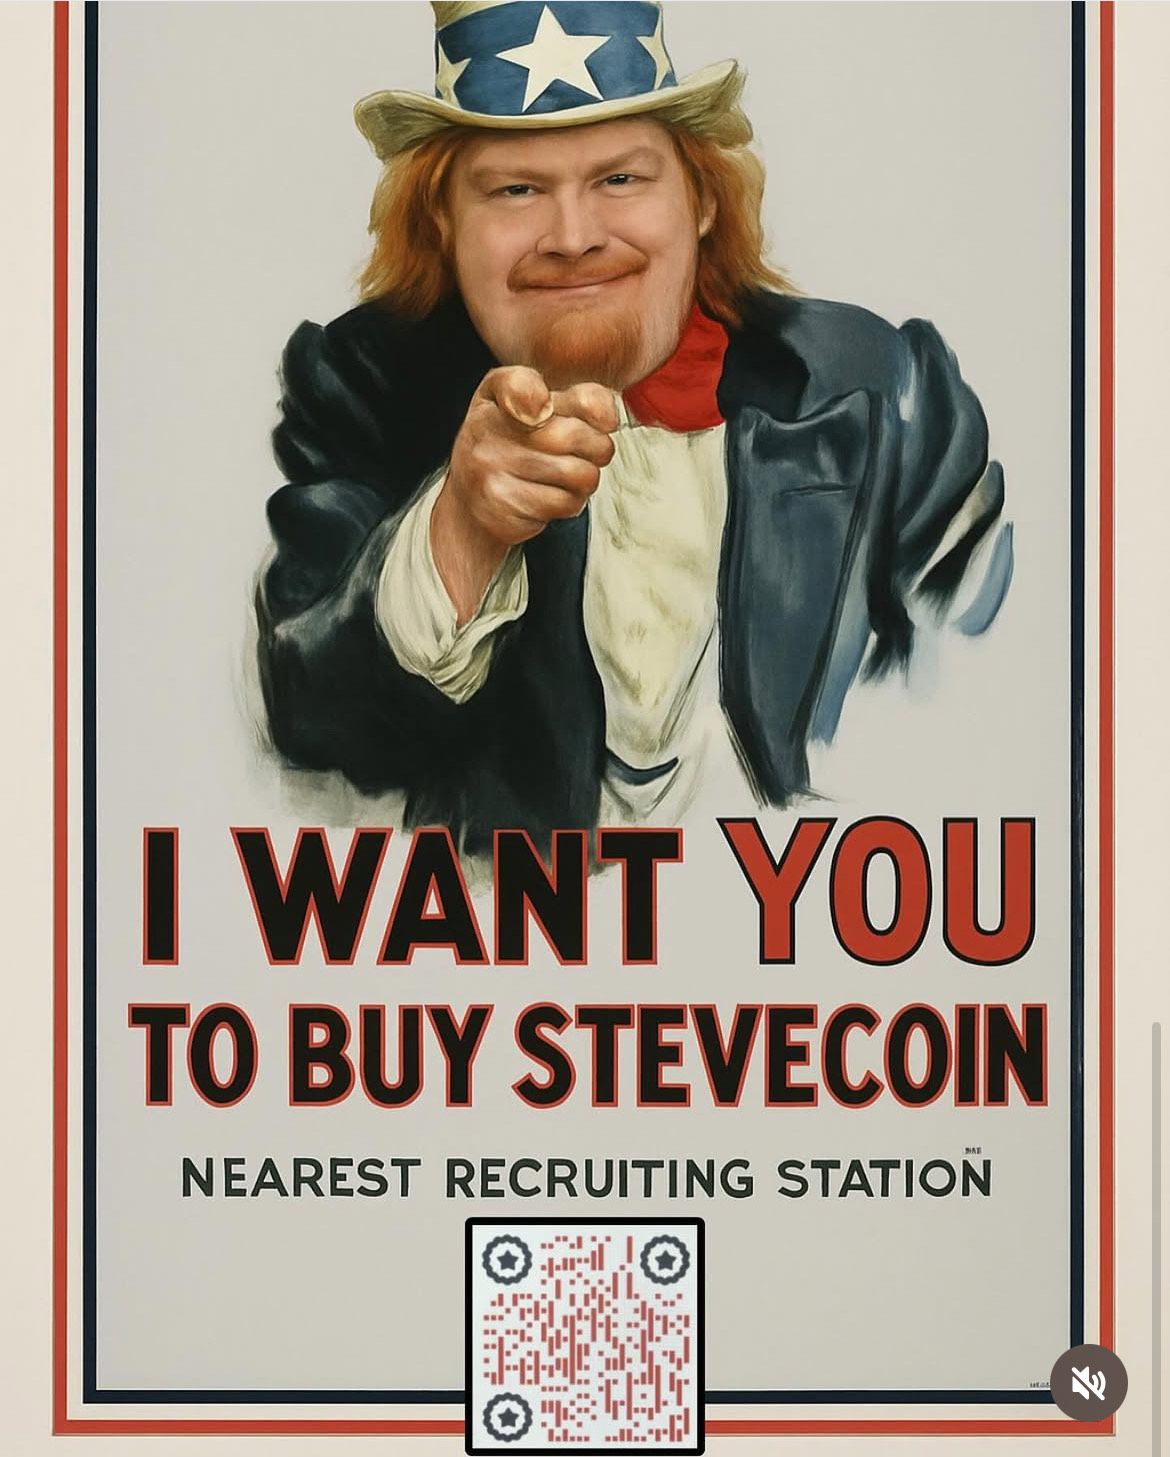
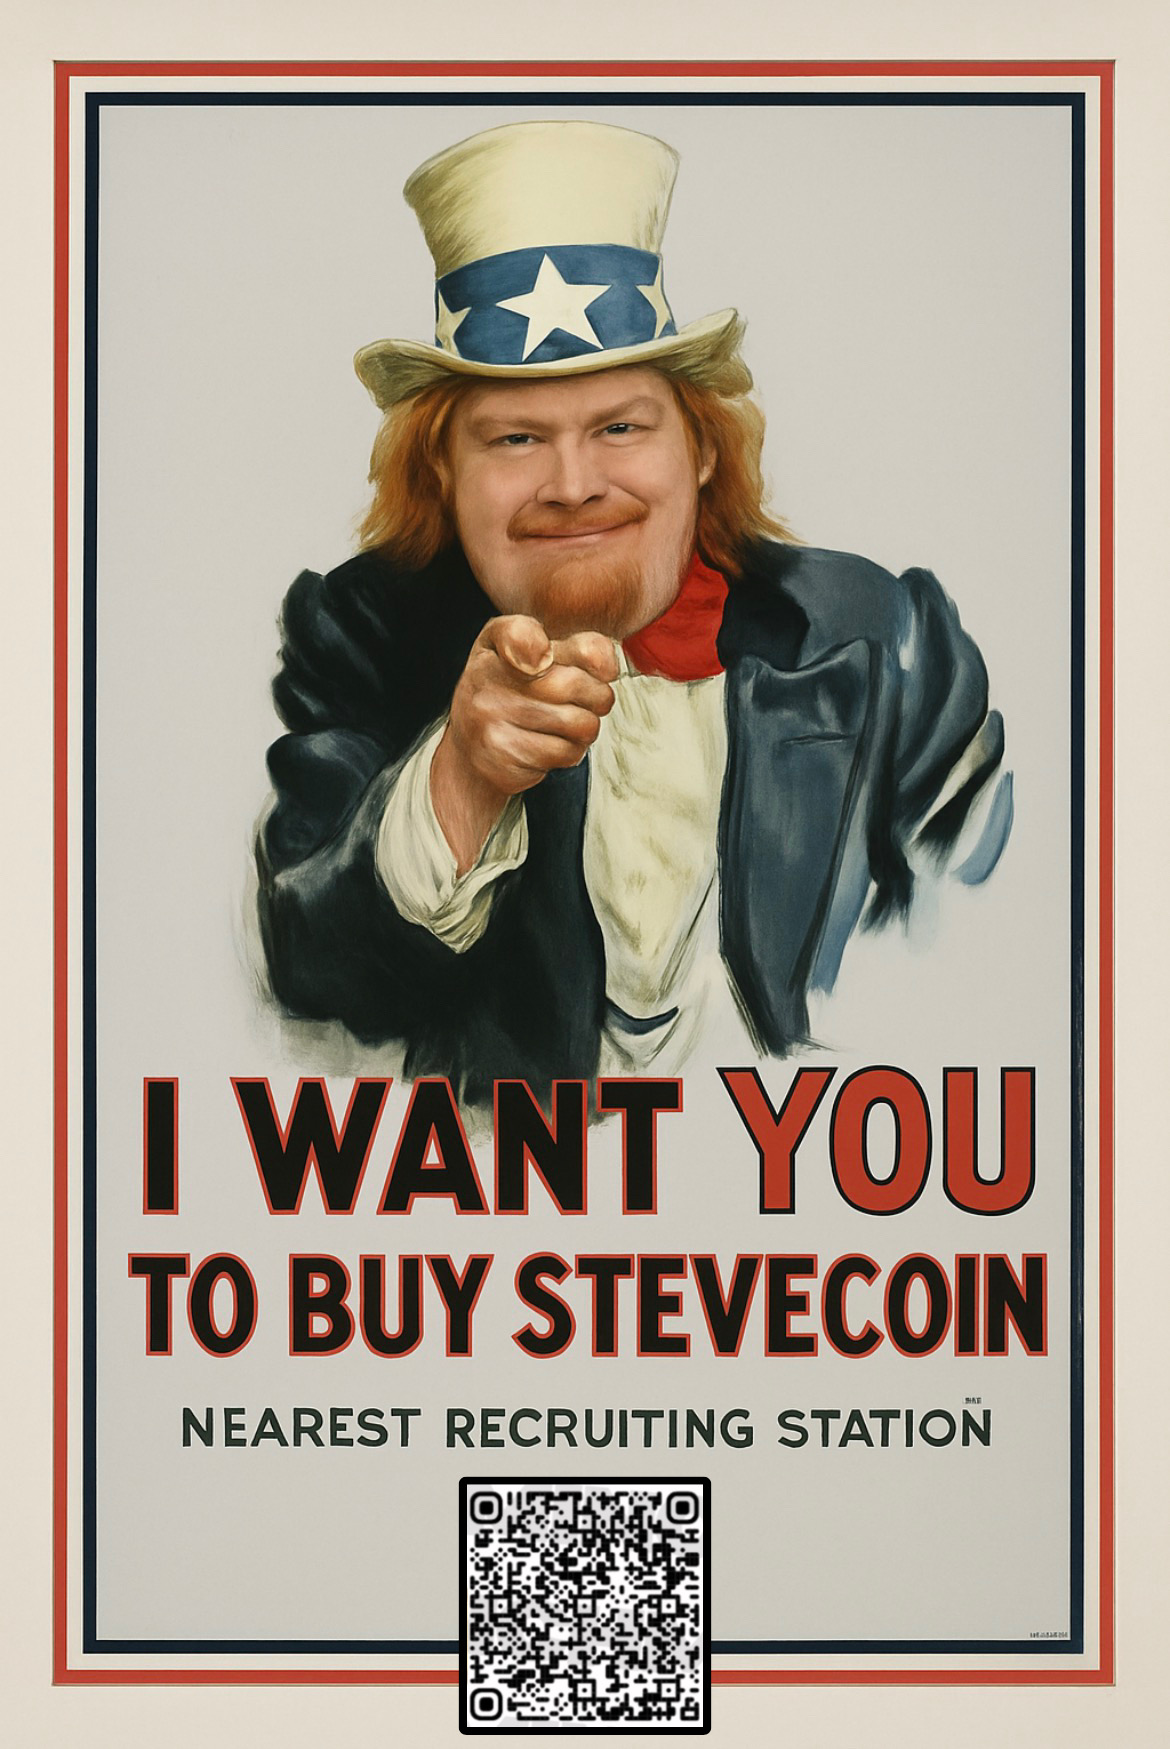
THIS TOOK FOREVER

diff --git a/index.html b/index.html
@@ -40,9 +40,8 @@
             <div class="row align-items-center">
                 <div class="col-lg-8 mx-auto">
                     <div class="mb-4">
-                        <img src="SteveCoin_banner.jpeg" alt="SteveCoin Hero Banner" class="img-fluid rounded shadow-lg w-100" style="max-height: 400px; object-fit: cover;">
+                        <img src="SteveCoin_banner.jpeg" alt="SteveCoin Hero Banner" class="rounded shadow-lg">
                     </div>
-                    <h1 class="display-3 fw-bold text-warning mb-2 military-font">WE WANT YOU TO BUY STEVECOIN</h1>
                     <p class="lead text-white bg-dark bg-opacity-75 rounded p-2 mb-4">Join the ranks of the bravest crypto holders. SteveCoin is the best coin with serious merch. BUY NOW!</p>
                     <a href="https://pump.fun/coin/GC1Ns9RAHGwJJxnmunMJpyssoYPZDkdgZrGTePJaUhpX" class="btn btn-danger btn-lg fw-bold shadow pulse" target="_blank">BUY STEVECOIN NOW</a>
                 </div>

diff --git a/style.css b/style.css
@@ -1,16 +1,25 @@
 
 .military-hero {
-	background: linear-gradient(135deg, #2d2d2d 60%, #4b5320 100%);
-	min-height: 80vh;
-	position: relative;
-	display: flex;
-	align-items: center;
+  background: linear-gradient(135deg, #2d2d2d 60%, #4b5320 100%);
+  min-height: 80vh;
+  position: relative;
+  display: flex;
+  align-items: flex-start; 
+  justify-content: center; 
+  padding-top: 0;
+  padding-bottom: 0;
 }
 
+
 .military-hero img {
-	max-height: 100%;
-	object-fit: contain;
-	width: 100%;
+	max-width: 100%;
+	height: auto;
+	object-fit: cover;
+	object-position: 100% 0;
+	transform: scale(0.8);
+	display: block;
+	margin-top: -125px;
+	margin-bottom: -75px;
 }
 
 .military-font {
@@ -41,3 +50,9 @@ body {
 	outline: none;
 	box-shadow: 0 0 0 0 rgba(220,53,69, 0.7);
 }
+
+.hero {
+	padding-top: 0;
+	padding-bottom: 0;
+}
+
